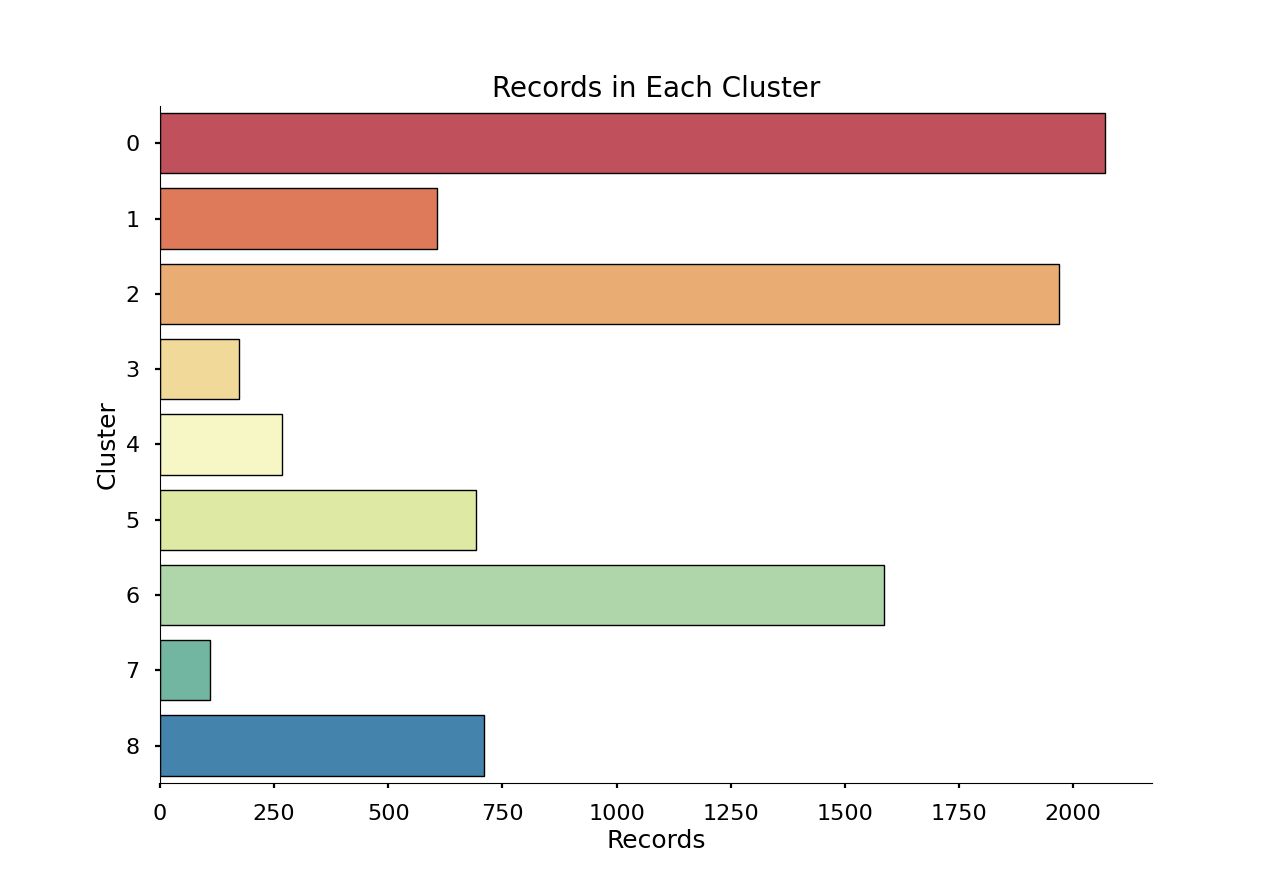
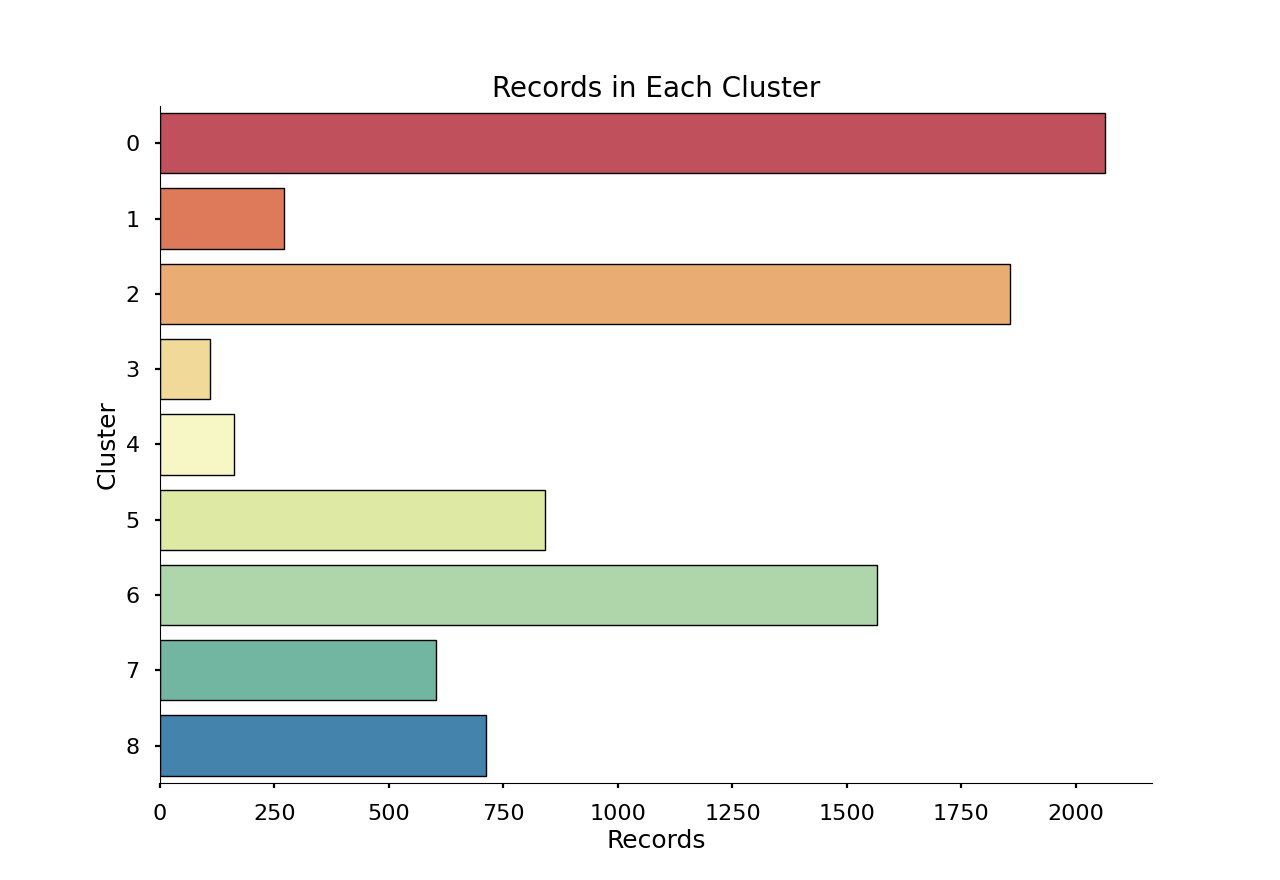
Add random state to clustering

diff --git a/machine_learning/Clustering/KMeans.py b/machine_learning/Clustering/KMeans.py
@@ -8,8 +8,7 @@ import os
 import pandas as pd
 import matplotlib.pyplot as plt
 import matplotlib.style as style
-from plotly.offline import init_notebook_mode, iplot, plot
-import numpy as np
+from plotly.offline import iplot
 
 
 def do_Kmeans(df):
@@ -22,6 +21,8 @@ def do_Kmeans(df):
     scaled = scalar.fit_transform(df[['budget', 'popularity', 'revenue', 'runtime', 'vote_average', 'vote_count']])
 
     scaled_df = pd.DataFrame(scaled, index=scaled_df.index, columns=scaled_df.columns)
+
+
 
     if not os.path.isfile('Data/pickles/kmeans_pickle'):
         # Get optimal K
@@ -67,7 +68,7 @@ def param_tune(df):
 
 
 def apply_kmeans(df, clusters):
-    kmeans = KMeans(n_clusters=clusters, verbose=1)
+    kmeans = KMeans(n_clusters=clusters, verbose=1, random_state=0)
     cluster_labels = kmeans.fit(df).labels_
 
     df['cluster_label'] = cluster_labels
@@ -101,7 +102,7 @@ def apply_kmeans(df, clusters):
 def kmeans_eda(df):
     # Cluster Cardinality
     style.use('seaborn-poster')
-    '''fig, ax = plt.subplots(1,1)
+    fig, ax = plt.subplots(1,1)
     cluster_comb = df.groupby(['cluster_label'])['title'].count().sort_values(ascending=False)
     sns.barplot(y=cluster_comb.index, x=cluster_comb.values, orient='h', palette="Spectral",
                 edgecolor='black', linewidth=1)
@@ -122,14 +123,14 @@ def kmeans_eda(df):
         height=1000,
         width=1900
     )
-    iplot(fig)'''
+    iplot(fig)
 
     '''['budget', 'popularity', 'revenue', 'runtime', 'vote_average', 
     'vote_count', 'cluster_label', 'cluster_string', 'title', 'genres']'''
 
     # Clusters and Genres EDA
 
-    clusters = list(df['cluster_label'].sort_values().unique())
+    clusters = list(df['cluster_label'].unique())
     cluster_dict = dict()
     cluster_count = 0
     for col in range(3):
@@ -165,7 +166,8 @@ def kmeans_eda(df):
                                  'Western': '#244155',
                                  'TV Movie': '#587b77',
                                  'Music': '#c64ac2',
-                                 'Documentary': '#5e805d'}, edgecolor='black', linewidth=0.9, ax=axs[col][row])
+                                 'Documentary': '#5e805d',
+                                 'Foreign':'#e28872'}, edgecolor='black', linewidth=0.9, ax=axs[col][row])
 
             title = "Cluster {}'s Genre Distribution".format(cluster_count)
             axs[col][row].set_title(title, fontsize=15, fontweight='bold')

diff --git a/Main.py b/Main.py
@@ -5,29 +5,31 @@ import DataCleaning
 from EDA import index as eda_index
 from machine_learning import Index as ml_index
 
-if not os.path.isfile('Data/pickles/rating_pickle') and not os.path.isfile('Data/pickles/meta_pickle'):
-    files_wanted = ['movies_metadata.csv', 'ratings.csv']
-    file_paths = list()
-    for dirname, _, filenames in os.walk('Data/movies-dataset'):
-        for filename in filenames:
-            if filename in files_wanted:
-                file_paths.append(str(dirname + "/" + filename))
 
-    rating_df = pd.read_csv(file_paths[0])
+def main():
+    if not os.path.isfile('Data/pickles/meta_pickle'):
+        files_wanted = ['movies_metadata.csv']
+        file_paths = list()
+        for dirname, _, filenames in os.walk('Data/movies-dataset'):
+            for filename in filenames:
+                if filename in files_wanted:
+                    file_paths.append(str(dirname + "/" + filename))
 
-    meta_df = pd.read_csv(file_paths[1], low_memory=False)
+        meta_df = pd.read_csv(file_paths[0], low_memory=False)
 
-    meta_df, rating_df = DataCleaning.clean_data(meta_df, rating_df)
+        meta_df = DataCleaning.clean_data(meta_df)
 
-    rating_df.to_pickle('Data/pickles/rating_pickle')
-    meta_df.to_pickle('Data/pickles/meta_pickle')
+        meta_df.to_pickle('Data/pickles/meta_pickle')
 
-else:
-    rating_df = pd.read_pickle('Data/pickles/rating_pickle')
-    meta_df = pd.read_pickle('Data/pickles/meta_pickle')
+    else:
+        meta_df = pd.read_pickle('Data/pickles/meta_pickle')
 
-#eda_index.run(meta_df, rating_df)
+    #eda_index.run(meta_df)
 
-meta_df = meta_df[meta_df['vote_count'] >= meta_df['vote_count'].quantile(.75)]
+    meta_df = meta_df[meta_df['vote_count'] >= meta_df['vote_count'].quantile(.75)]
 
-ml_index.do_ml(meta_df)
+    ml_index.do_ml(meta_df)
+
+
+if __name__ == '__main__':
+    main()

diff --git a/DataCleaning.py b/DataCleaning.py
@@ -1,7 +1,7 @@
 import ast
 
 
-def clean_data(meta_df, ratings_df):
+def clean_data(meta_df):
     
     meta_df.drop(['belongs_to_collection', 'homepage', 'tagline', 'poster_path', 'overview', 'imdb_id', 'spoken_languages'], inplace=True, axis=1)
     
@@ -44,13 +44,6 @@ def clean_data(meta_df, ratings_df):
 
     meta_df.dropna(inplace=True)
 
-    movie_id_set = set()
-
-    for i in meta_df['id']:
-        movie_id_set.add(i)
-
-    ratings_df = ratings_df[~ratings_df['movieId'].isin(movie_id_set)]
-
     meta_df['budget'] = meta_df['budget'].astype(int)
 
-    return meta_df, ratings_df
+    return meta_df

diff --git a/EDA/MetaData.py b/EDA/MetaData.py
@@ -1,7 +1,7 @@
 import plotly.express as px
 import plotly.graph_objs as go
 
-def metadata_eda(meta_df, ratings_df):
+def metadata_eda(meta_df):
 
     fig = px.scatter(meta_df, x='budget', y='revenue', hover_data=['title'], color='genres', width=1200, height=800)
     fig.update_layout(

diff --git a/EDA/index.py b/EDA/index.py
@@ -1,4 +1,4 @@
 from EDA import MetaData
 
-def run(meta_df, ratings_df):
-    MetaData.metadata_eda(meta_df, ratings_df)
+def run(meta_df):
+    MetaData.metadata_eda(meta_df)

diff --git a/README.md b/README.md
@@ -58,7 +58,7 @@ I decided that clusters of 9 seems to have the best elbow. I could go for a clus
 ### Cluster Analysis
 Here are the individual records from the data frame grouped up with their clusters
 ![image](Charts/Cluster_Record_Count.png)  
-Cluster 4 seems to have the most records by a significant amount in comparison to cluster 1.
+Cluster 0,2 and 6 has a cardinality considerably larger than the rest
 
 #### Feature Matrix
 Looking how each of the features compare to each other with each cluster being colored
@@ -68,5 +68,5 @@ It's interesting to see that cluster 3 is always on the higher end of all values
 #### Each of the Clusters Genre Distribution
 First thing I would like to look at is whether there is some sort of genre cluster going on (most likely not)
 ![image](Charts/ClustersGenreDist.png)
-I find it interesting that Drama and Action movies seem to be the top in several clusters. This could be that there is just a larger quantity of these movies in the data set, but then why is Drama's count so low in Cluster 4,7,8?  
+I find it interesting that Drama and Action movies seem to be the top in several clusters. This could be that there is just a larger quantity of these movies in the data set, but then why is Drama's count so low in Cluster 7 and 8?  
 From these results, I'd like to next compare specific movies within the Drama and Action genres within several clusters and find the similarities / differences.
